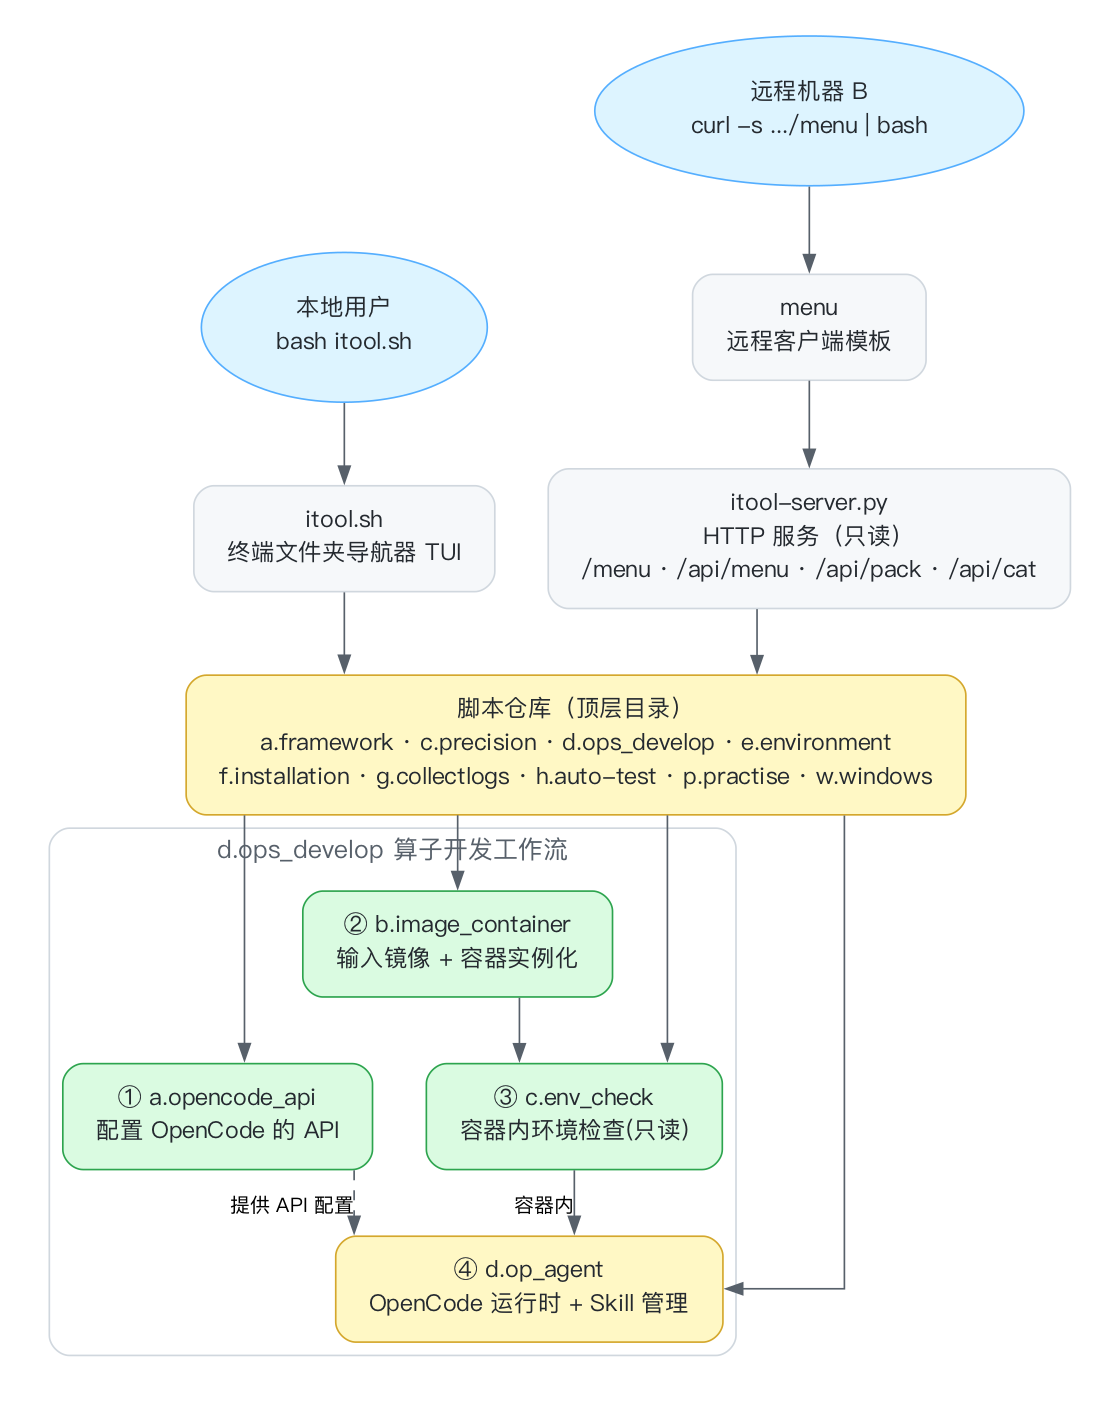
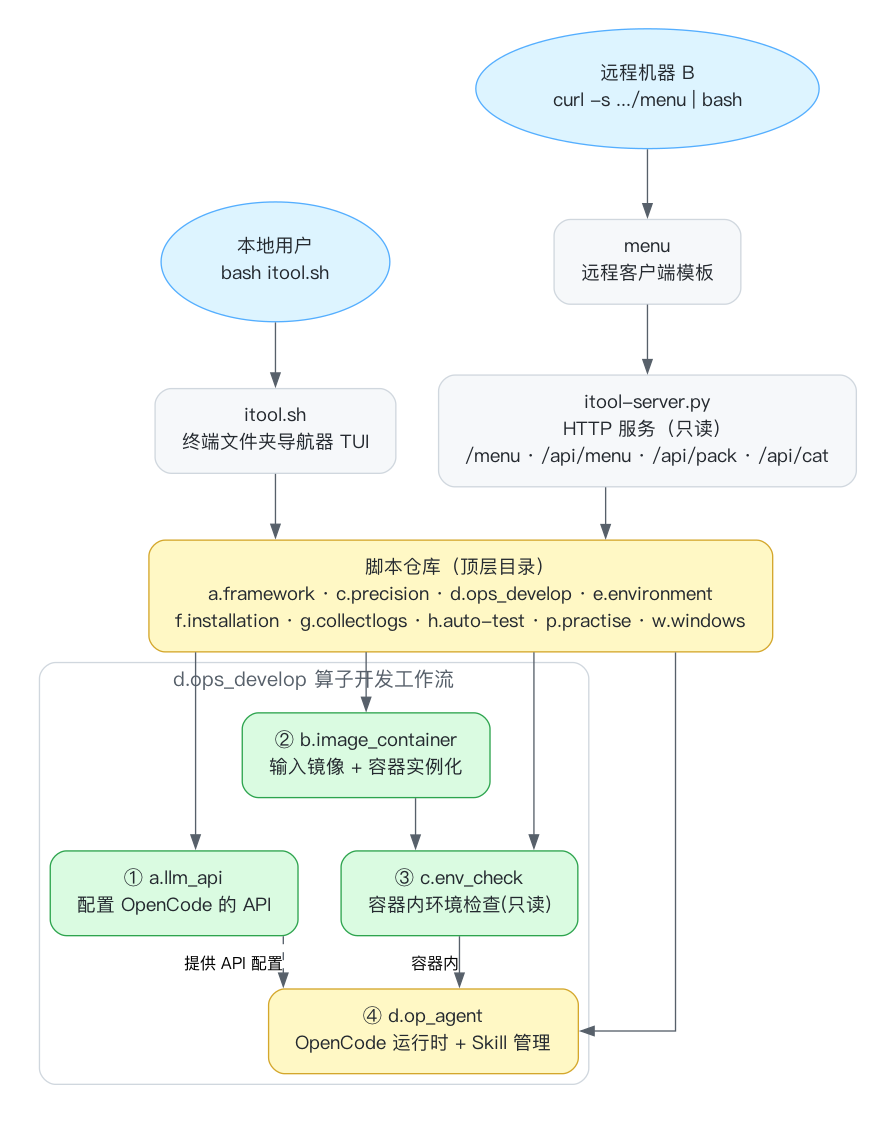
重命名 a.opencode_api 为 a.llm_api，统一文档与流程图

diff --git a/d.ops_develop/a.llm_api/readme.md b/d.ops_develop/a.llm_api/readme.md
@@ -1,4 +1,4 @@
-# a.opencode_api — 配置 OpenCode 的 API
+# a.llm_api — 配置 OpenCode 的 API
 
 > 算子开发工作流第 1 步：给 OpenCode 录入 OpenAI 兼容接口（baseURL / apiKey / model / provider），
 > 写入 opencode 的配置文件，供 `d.op_agent` 安装的 opencode 直接调用大模型。
@@ -12,10 +12,10 @@
 ## 运行
 
 ```bash
-bash d.ops_develop/a.opencode_api/run.sh              # 菜单
-bash d.ops_develop/a.opencode_api/run.sh config       # 直接配置
-bash d.ops_develop/a.opencode_api/run.sh view         # 查看当前配置
-bash d.ops_develop/a.opencode_api/run.sh test         # 测试连接
+bash d.ops_develop/a.llm_api/run.sh              # 菜单
+bash d.ops_develop/a.llm_api/run.sh config       # 直接配置
+bash d.ops_develop/a.llm_api/run.sh view         # 查看当前配置
+bash d.ops_develop/a.llm_api/run.sh test         # 测试连接
 ```
 
 菜单：
@@ -34,7 +34,7 @@ OPENCODE_API_BASE=https://api.deepseek.com/v1 \
 OPENCODE_API_KEY=sk-xxx \
 OPENCODE_MODEL=deepseek-chat \
 OPENCODE_PROVIDER=deepseek \
-bash d.ops_develop/a.opencode_api/run.sh config
+bash d.ops_develop/a.llm_api/run.sh config
 ```
 
 支持环境变量：`OPENCODE_API_BASE` / `OPENCODE_API_KEY` / `OPENCODE_MODEL` /

diff --git a/USAGE.md b/USAGE.md
@@ -109,7 +109,7 @@ curl -s -H 'Authorization: Bearer <token>' 'http://<server-A>:5170/api/cat?path=
 面向：在客户机器上开发昇腾算子。链路收敛为 4 项：
 
 ```
-① a.opencode_api     配置 OpenCode 的 API
+① a.llm_api     配置 OpenCode 的 API
 ② b.image_container  拉镜像 + 建容器
 ③ c.env_check        容器内环境检查（只读，只给建议）
 ④ d.op_agent         安装 opencode 运行时装 + 离线 Skill 仓库 + 联网更新
@@ -118,7 +118,7 @@ curl -s -H 'Authorization: Bearer <token>' 'http://<server-A>:5170/api/cat?path=
 ### 3.1 ① 配置 OpenCode 的 API
 
 ```bash
-bash d.ops_develop/a.opencode_api/run.sh
+bash d.ops_develop/a.llm_api/run.sh
 ```
 
 录入、查看、测试 OpenCode 用的 OpenAI 兼容接口（baseURL / apiKey / model / provider），

diff --git a/d.ops_develop/readme.md b/d.ops_develop/readme.md
@@ -8,7 +8,7 @@
 
 ```
 d.ops_develop/
-├── a.opencode_api/                     ① 配置 OpenCode 的 API
+├── a.llm_api/                     ① 配置 OpenCode 的 API
 │   ├── run.sh                 录入 baseURL / apiKey / model / provider
 │   └── readme.md              功能说明
 ├── b.image_container/                 ② 镜像拉取 + 容器实例化
@@ -28,7 +28,7 @@ d.ops_develop/
 
 ```bash
 # ① 设置 OpenCode 的 API（先录入一张模型配置）
-bash d.ops_develop/a.opencode_api/run.sh
+bash d.ops_develop/a.llm_api/run.sh
 
 # ② 拉镜像 + 建容器
 bash d.ops_develop/b.image_container/run.sh

diff --git a/README.md b/README.md
@@ -100,7 +100,7 @@ ITOOL_SERVER=http://<server-A>:5170 bash menu
 
 ```
 d.ops_develop/
-├── a.opencode_api/                    ① 配置 OpenCode 的 API
+├── a.llm_api/                    ① 配置 OpenCode 的 API
 │   ├── run.sh                 交互式录入 baseURL / apiKey / model / provider
 │   └── readme.md              功能说明
 ├── b.image_container/                 ② 镜像拉取 + 容器实例化
